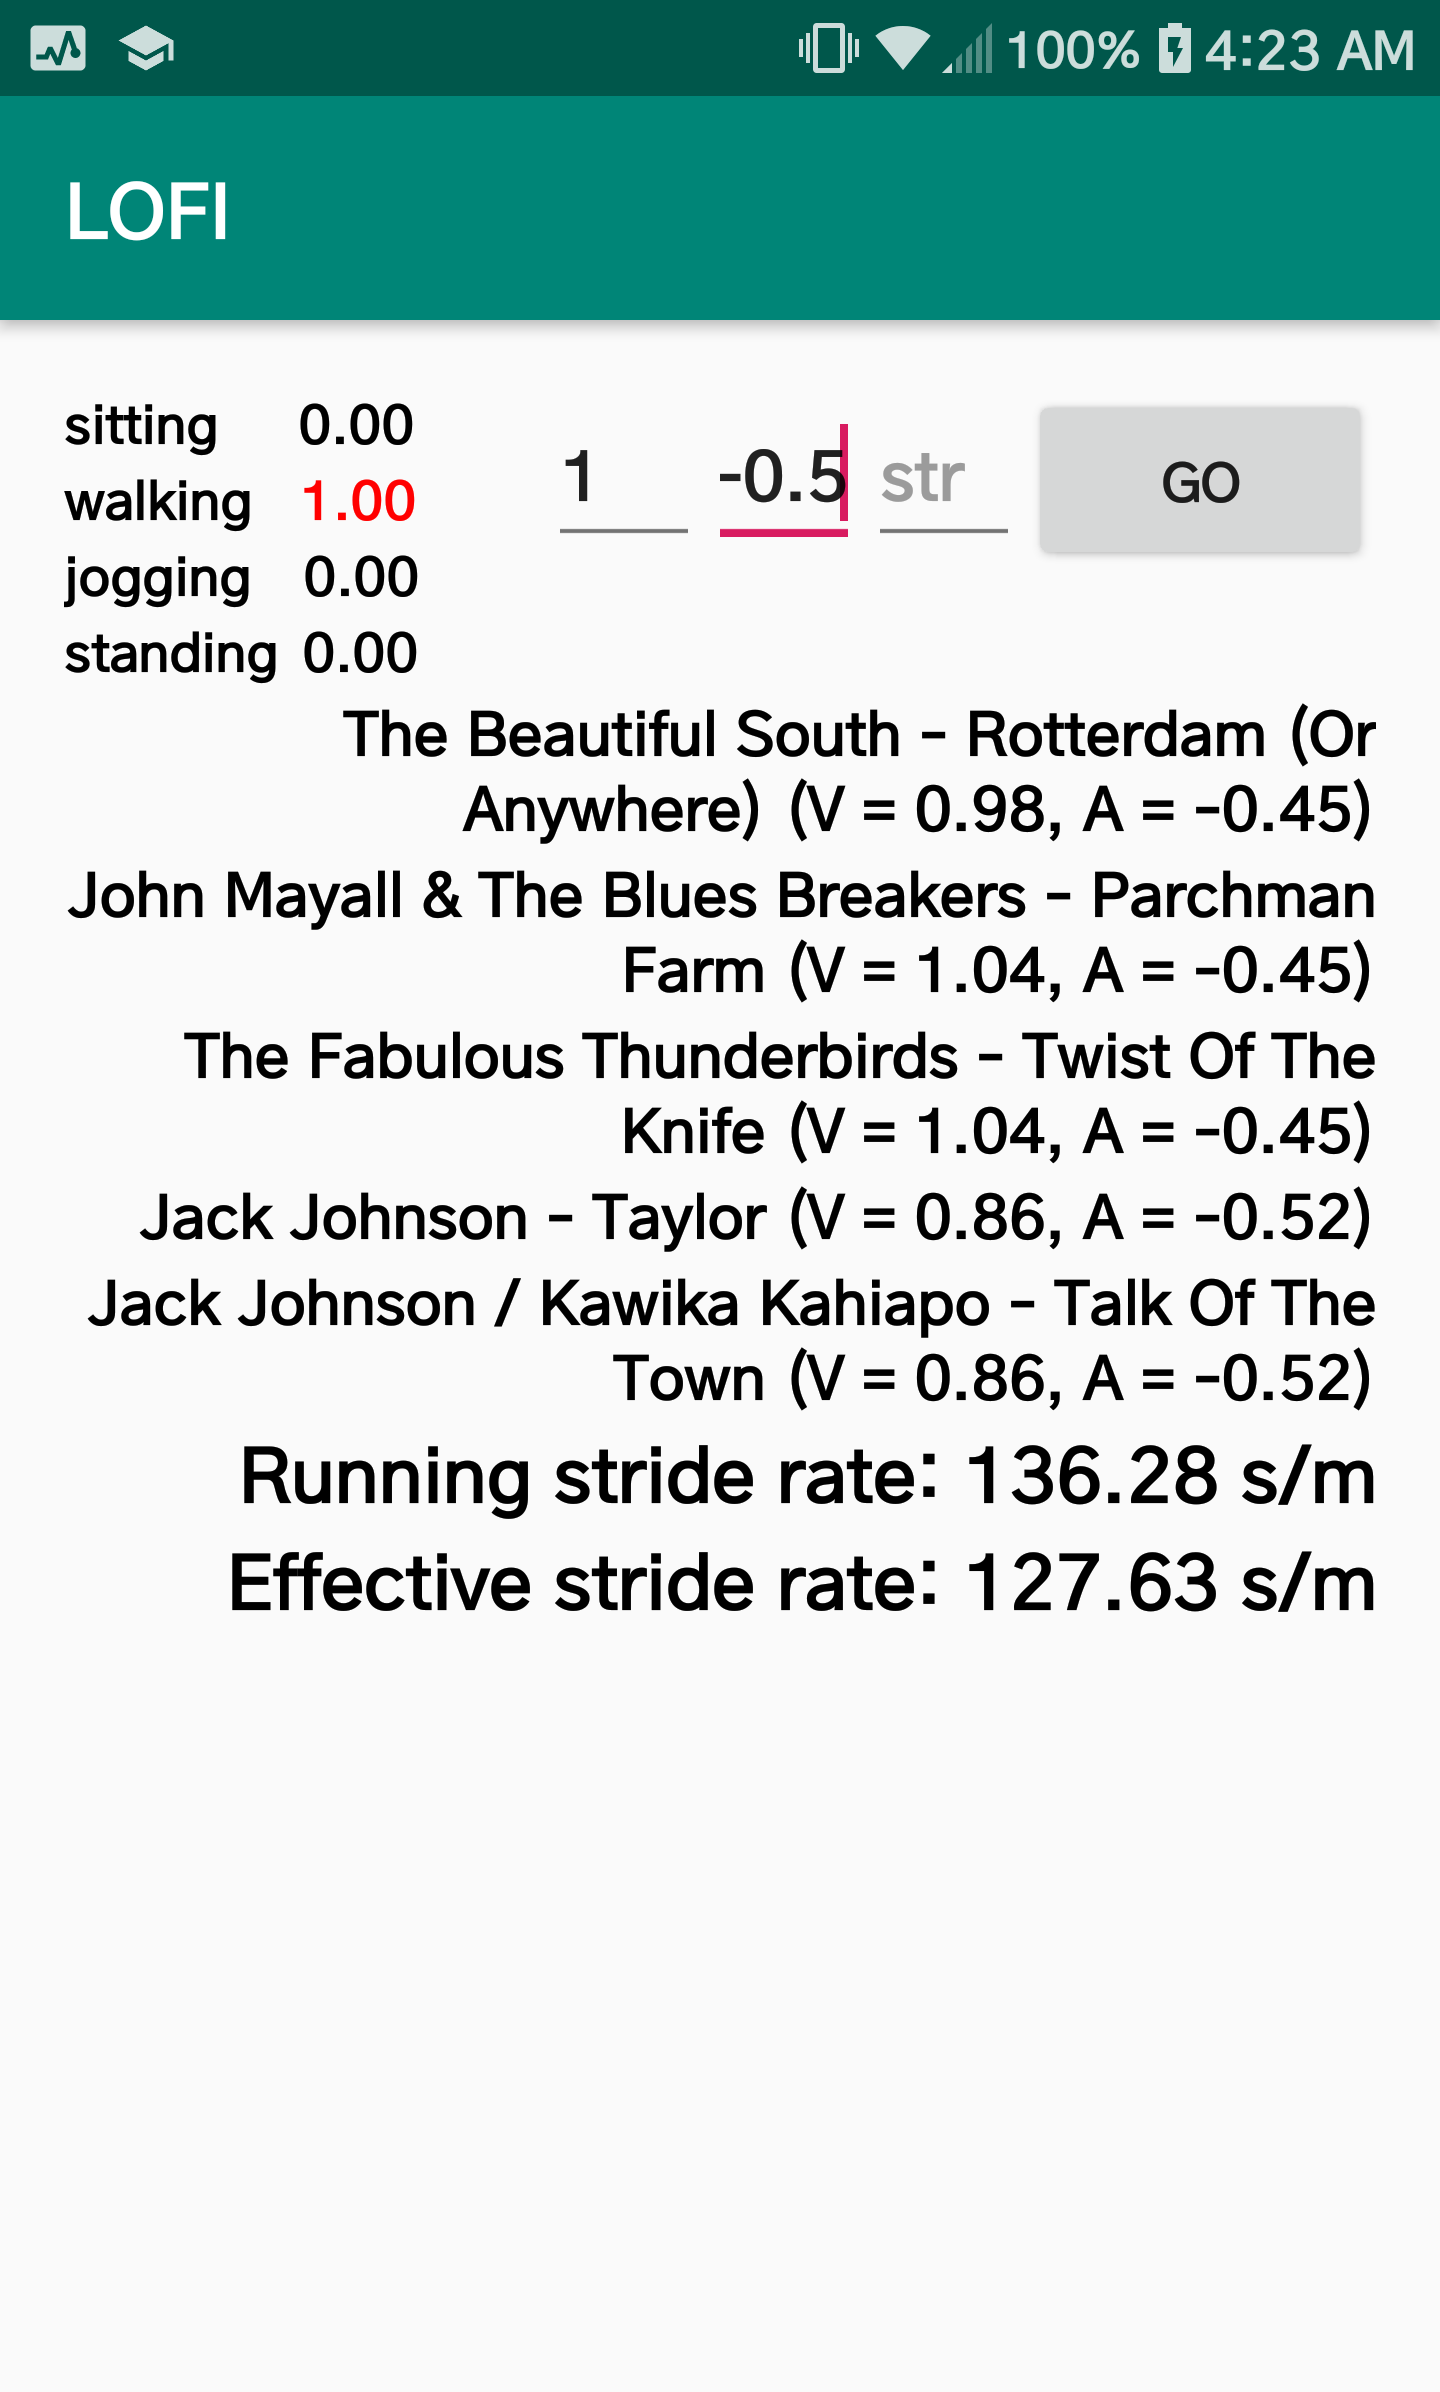
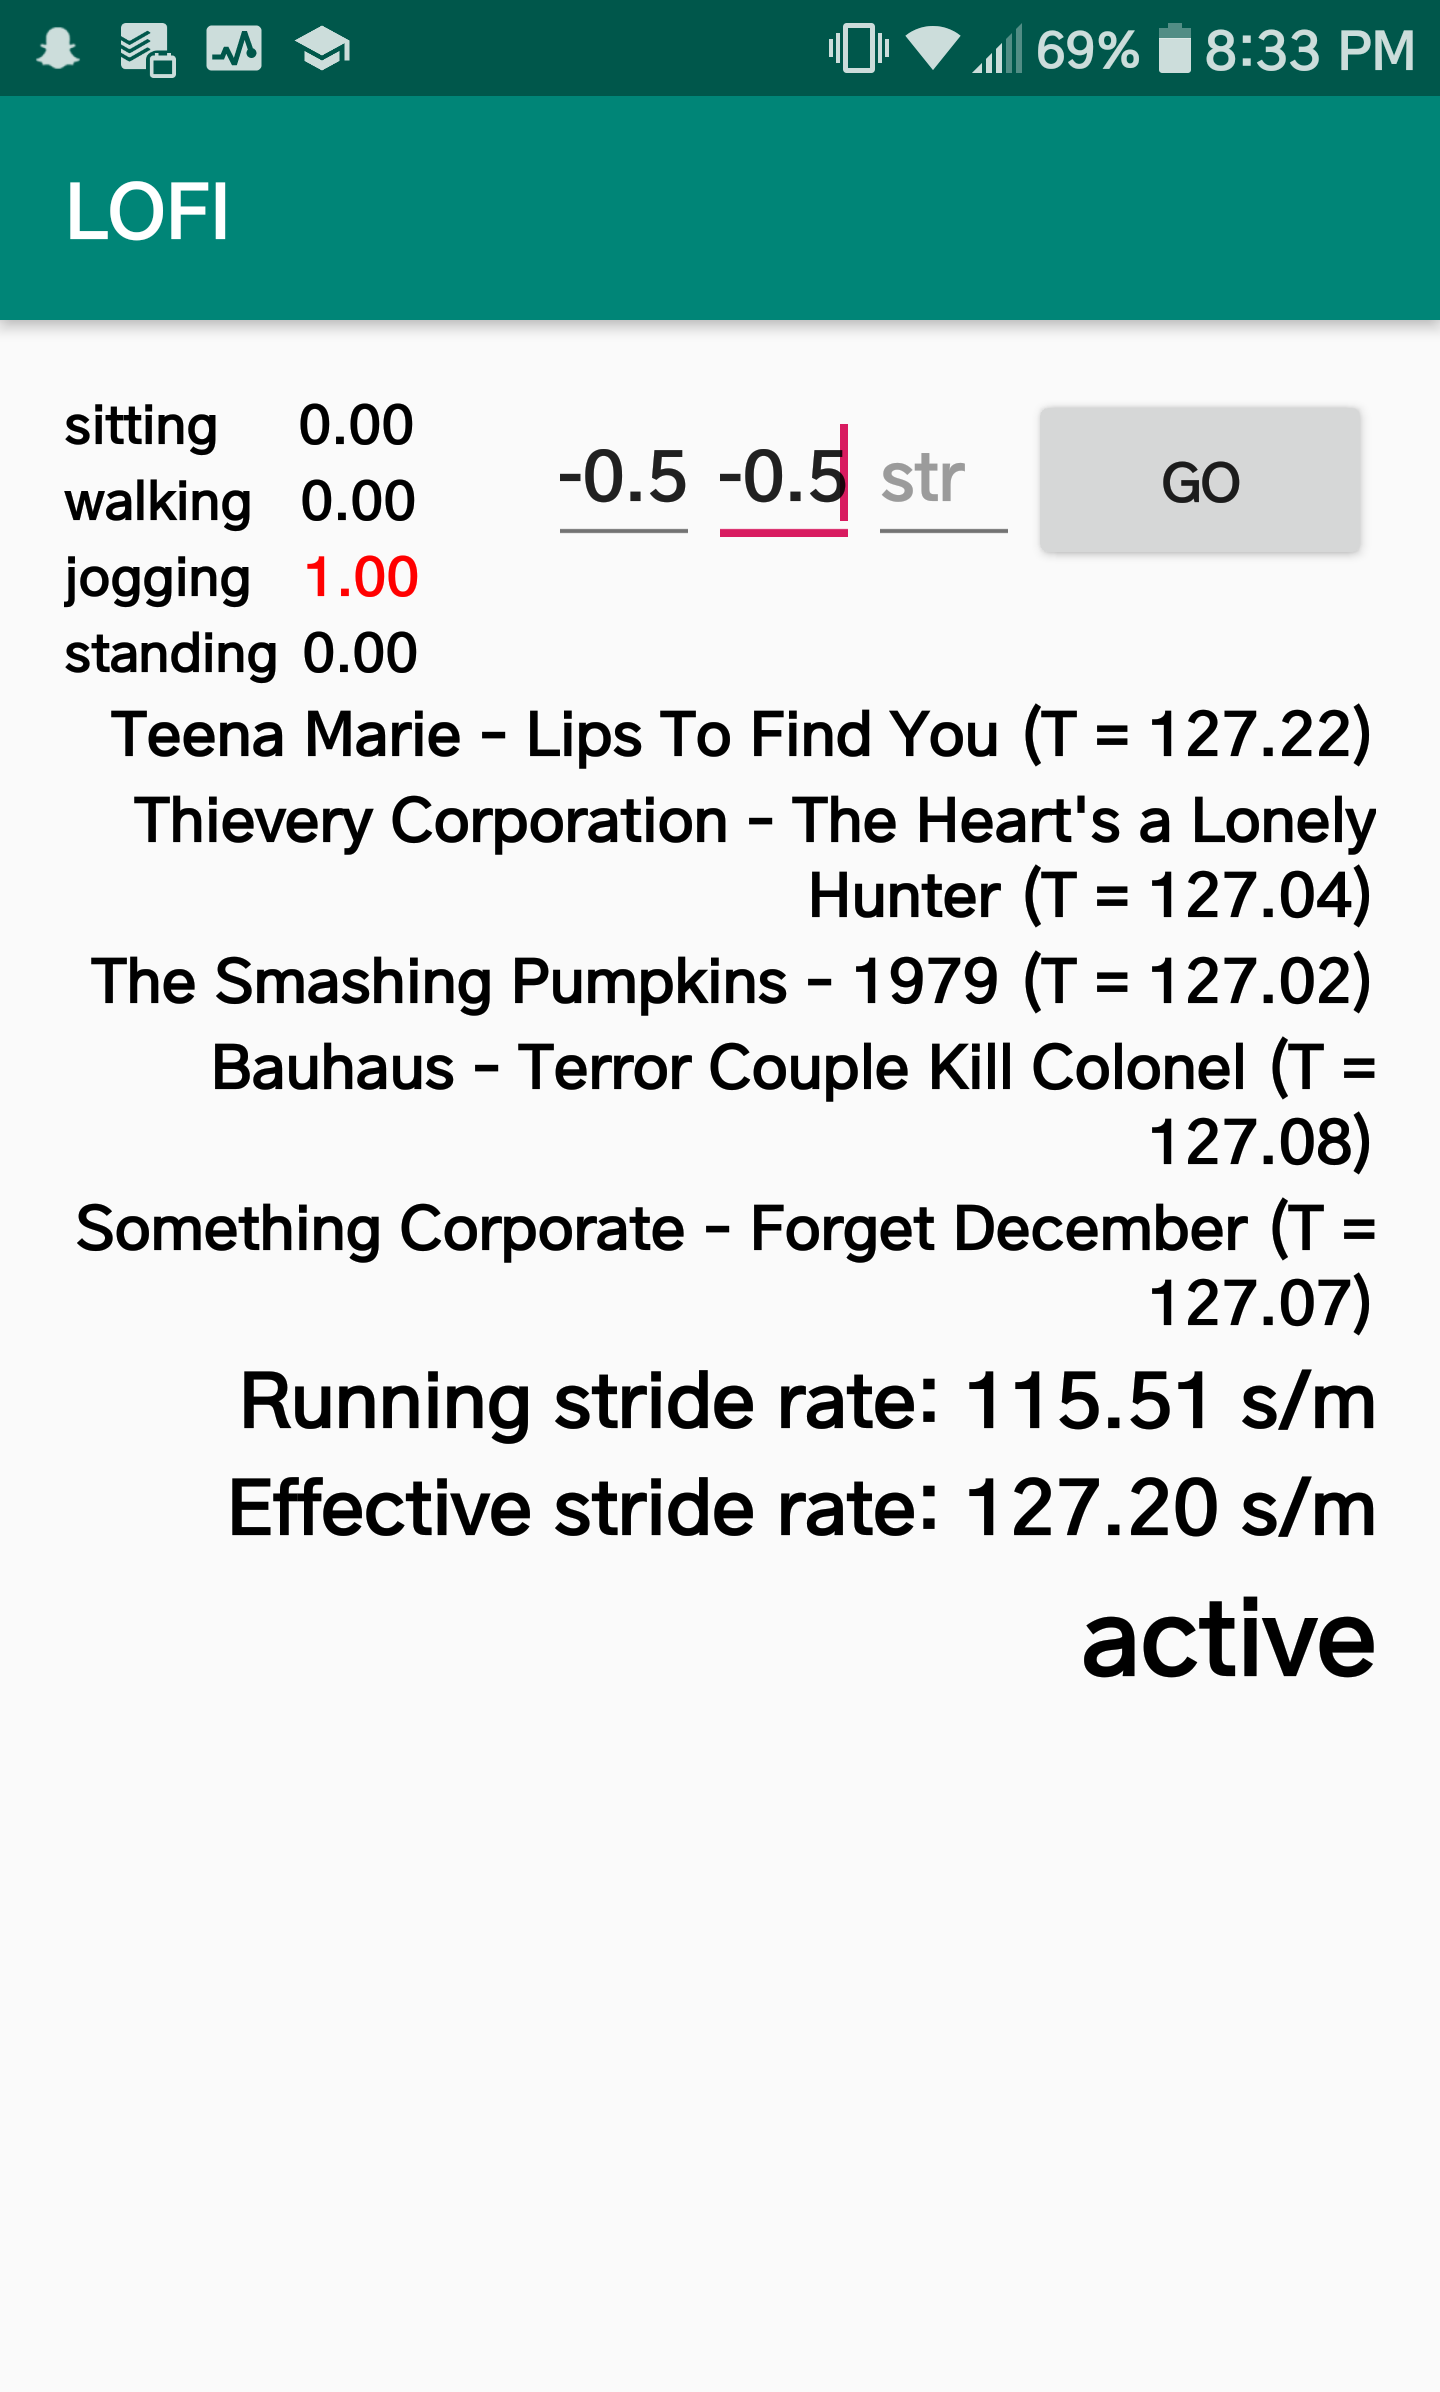
stride rate results done

diff --git a/design.md b/design.md
@@ -221,14 +221,15 @@ Of course, building on this project to recommend music for more granularly defin
 
 <p>Depicted above is a screenshot of the interface. The upper-left corner shows the inferred probability of each of the 4 types of activities, and the classified 
 activity has its probability colored red for easier identification. The upper-right corner contains manual entry fields for valence, arousal and stride rate values 
-used for debugging. They can instead be populated by valence, arousal, and stride rate data calculated as detailed earlier in the report.</p>
+used for debugging. In practice, they are instead populated by valence, arousal, and stride rate data calculated as detailed earlier in the report.</p>
 
 <p>The middle of the app is 
 populated by the top K = 5 song recommendations based on the inputs given. In this example, since only valence and arousal was entered manually, the song recommendations 
 are functions of only valence and arousal of songs. This can be confirmed by comparing the recommended songs' valence and arousal values with the inputted VA values. 
 The app will recommend songs based on stride rate as well if the user is inferred to be doing an "active" activity (walking or jogging) for at least 3 consecutive 
 activity inferences. Below the song recommendations are the running stride rate, which displays the most recent step-to-step stride rate estimation, and the effective 
-stride rate which is the average of the last 16 step-to-step stride rates calculated.  </p>
+stride rate which is the average of the last 16 step-to-step stride rates calculated. Below that is the activity level state that the app is operating in, determining the
+song recommendation scheme. </p>
 
 ### Optimization 
 

diff --git a/results.md b/results.md
@@ -57,10 +57,18 @@ activity is classified as active for at least 3 consecutive classifications.</p>
 
 # *Stride rate estimation*
 
+<p align="center"><img src="/assets/images/results_stride.PNG"></p>
+
 <p>To conduct these tests, the smartphone was placed in the user's front leg pocket and in their free hand another smartphone accessed a 
 website [#] that was used to estimate tempo by tapping a button repeatedly. 
 As the user walked or jogged at a consistent stride rate, they tapped a button on the website at the same rate as their feet hitting the ground. The tempo estimated by the 
-website, which estimates tempo identically to the smartphone implementation of stride rate estimation, is considered the ground truth.</p>
+website, which estimates tempo identically to the smartphone implementation of stride rate estimation, is considered the ground truth. 30 effective stride rate estimations 
+were captured for both walking and jogging. Again, walking was fixed at speed 2.5 mph and jogging at 6 mph.</p>
+
+<p>Stride rate estimation is better for jogging than for walking. Jogging inherently produces a more pronounced step that is easier for the step detector to confidently detect. One reason 
+that walking stride rate estimation tended to be higher than jogging is that sometimes during the test, the subject would turn around in place while at the end of the hall they walked down: 
+this sudden increase in frequency of steps could have contributd to the error observed. The 
+errors are relatively small and allow for recommending music based on stride rate as intended, still producing songs with a suitable tempo to jog to.</p>
 
 # *Mood estimation*
 
